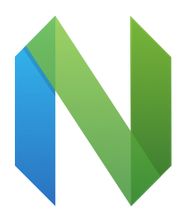
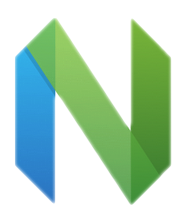
Update pics

diff --git a/README.md b/README.md
@@ -6,7 +6,7 @@
 <br/>
 
 Hi there! I am Jay, a fan of [Python](https://www.python.org/) <img src="pics/python.png" alt="Image" width="20" /> 
-, [Neovim](https://neovim.io/)  <img src="pics/neovim.png" alt="Image" width="20" /> and [Neon Genesis Evangelion](https://www.evangelion.co.jp/) <img src="pics/nerv.jpg" alt="Image" width="20" />!
+, [Neovim](https://neovim.io/)  <img src="pics/neovim.png" alt="Image" width="20" /> and [Neon Genesis Evangelion](https://www.evangelion.co.jp/) <img src="pics/nerv.png" alt="Image" width="20" />!
 
 
 ![Stats](https://github-readme-stats-codestackr.vercel.app/api?username=cold-soda-jay&show_icons=true&hide_border=true&theme=cobalt)
